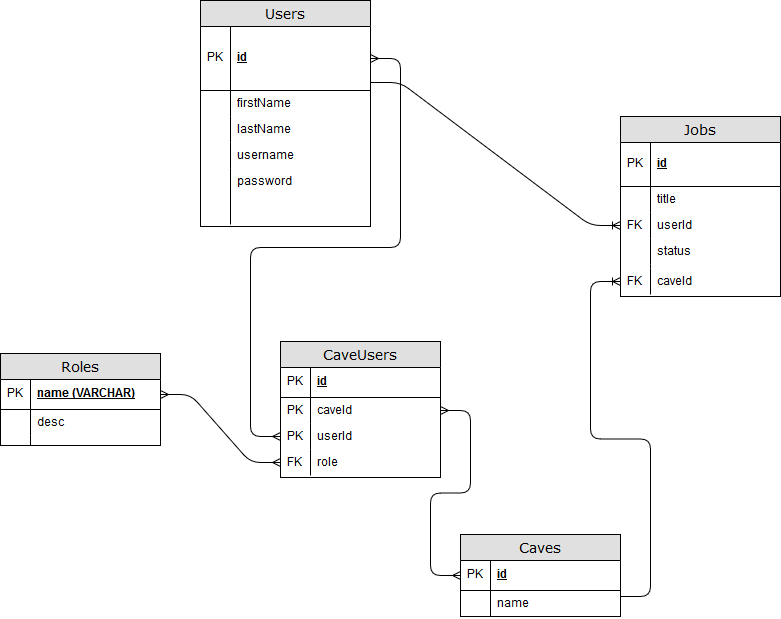
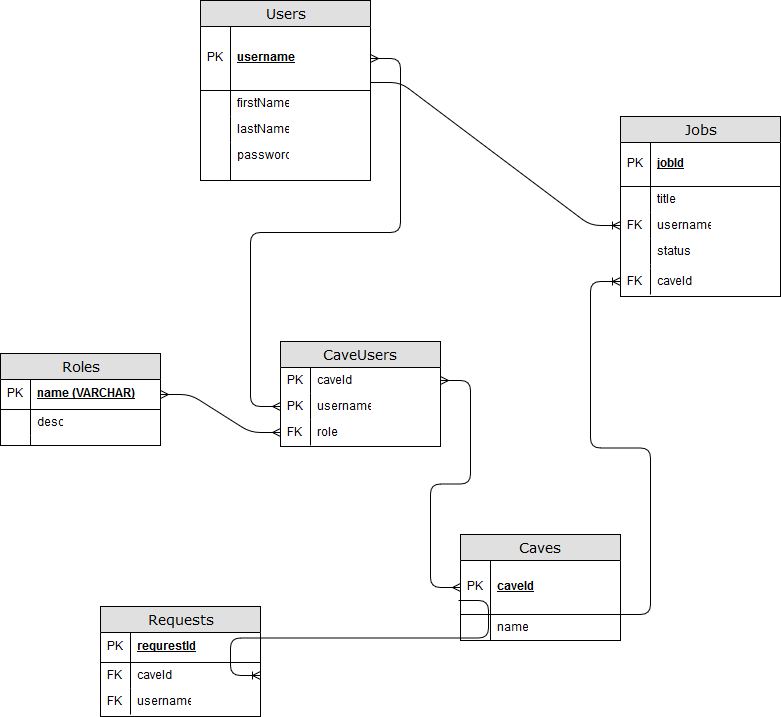
create /models/request.js. update er diagram

diff --git a/models/Request.js b/models/Request.js
@@ -1,0 +1,14 @@
+module.exports = function(sequelize,DataTypes){
+    return sequelize.define('Request',{
+        requestId: {
+            type: DataTypes.INTEGER,
+            primaryKey: true,
+            autoIncrement: true
+        },
+        status: { //TABLE ROW
+           type: DataTypes.STRING, //EXPECTING A STRING {COLUMN STRUCTURE}
+           AllowNull: false, //THIS COLUMN CANNOT BE EMPTY
+           defaultValue: 'pending'
+        }
+    });
+}
